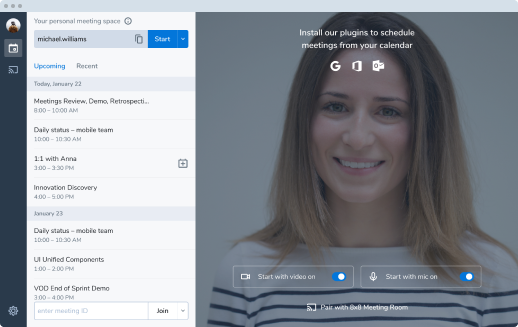
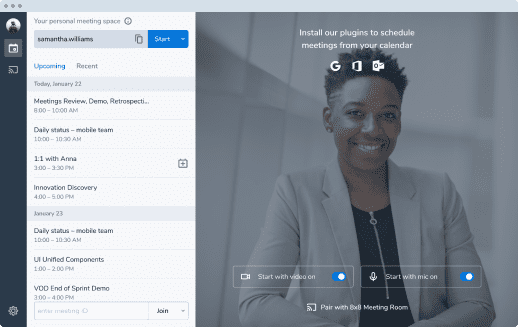
Implement new design

diff --git a/css/_welcome_page_content.scss b/css/_welcome_page_content.scss
@@ -1,5 +1,37 @@
 /** Insert custom CSS for any additional content in the welcome page **/
 
+// Edit some elements to accomodate new design
+
+#enter_room:before {
+    content: '8x8.vc';
+    color: black;
+    border-right: 1px solid #CBD8E4;
+    display: inline-block;
+    align-self: stretch;
+    line-height: 48px;
+    padding: 0 16px;
+    font-size: 14px;
+}
+
+.welcome-page-button:after {
+    content: 'Start meeting';
+    font-size: 14px;
+}
+
+.header-text:after {
+    content: 'Start a meeting now with one click';
+    font-weight: 600;
+    font-size: 28px;
+    color: #fff;
+    margin-top: 40px;
+}
+
+.header-text-title:after {
+    content: 'Secure, fully-featured and free video conferencing';
+    font-size: 42px;
+    opacity: 0.8;
+}
+
 .welcome-page-content {
     display: flex;
     flex-direction: column;
@@ -8,29 +40,26 @@
     position: relative;
     z-index: 1;
     width: 100%;
+    background-color: #fff;
 }
 
 .welcome-page-extra-content {
     padding-bottom: 88px;
 }
-.welcome-app-description-container {
-    justify-content: center;
-    align-items: center;
-    max-height: 152px;
-    width: 100%;
-    display: flex;
-    background-color: #14C9A2;
-    padding: 32px 0 34px;
-}
 
-.welcome-app-description-text {
-    width: 608px;
-    color: #fff;
+.welcome-page-or-bubble {
+    height: 56px;
+    width: 56px;
+    position: absolute;
+    top: -28px;
+    align-self: center;
+    text-align: center;
+    line-height: 56px;
+    border-radius: 50%;
+    color: black;
+    background: #CBD8E4;
     font-weight: 500;
     font-size: 16px;
-    line-height: 22px;
-    word-break: break-word;
-    text-align: center;
 }
 
 .welcome-content-container {
@@ -39,7 +68,7 @@
     justify-content: space-between;
     background: #fff;
     width: calc(100% - 188px);
-    padding: 32px 94px 106px;
+    padding: 60px 94px 106px;
     overflow: hidden;
 }
 
@@ -257,7 +286,7 @@
     font-weight: 600;
 }
 
-@media only screen  and (max-width: 450px) {
+@media only screen and (max-width: 450px) {
     .welcome-content-container {
         width: calc(100% - 48px);
         padding: 24px 24px 43px;
@@ -333,8 +362,41 @@
         align-items: center;
     }
 
-    .header.header {
-        background-image: $welcomePageHeaderBackgroundSmall;
+
+    .welcome .header #enter_room .enter-room-input-container {
+        display: none;
+    }
+
+    .welcome .header #enter_room:before {
+        content: none;
+    }
+
+    .welcome .header #enter_room {
+        width: inherit;
+    }
+
+    .welcome .welcome-page-button {
+        border-radius: 24px;
+        width: 260px;
+    }
+
+    .welcome .header .header-text {
+        margin-top: 140px;
+    }
+
+    .header-text-title:after {
+        font-size: 28px;
+    }
+
+    .header-text:after {
+        font-size: 24px;
+    }
+
+}
+
+@media only screen and (min-width: 1550px) {
+    .welcome .header {
+        background-size: contain;
     }
 }
 

diff --git a/css/_variables.scss b/css/_variables.scss
@@ -166,17 +166,17 @@ $welcomePageFontFamily: inherit;
 $welcomePageBackground: none;
 $welcomePageTitleColor: #fff;
 
-$welcomePageHeaderBackground: url('../images/welcome-background.jpg');
-$welcomePageHeaderBackgroundSmall: url('../images/welcome-background-small.png');
+$welcomePageHeaderBackground: url('../images/welcome-background.png');
 $welcomePageHeaderBackgroundPosition: center;
 $welcomePageHeaderBackgroundRepeat: no-repeat;
 $welcomePageHeaderBackgroundSize: cover;
-$welcomePageHeaderPaddingBottom: 40px;
+$welcomePageHeaderPaddingBottom: 60px;
 
-$welcomePageHeaderTextMarginTop: 254px;
-$welcomePageHeaderTextMarginBottom: 40px;
+$welcomePageHeaderTextMarginTop: 190px;
+$welcomePageHeaderTextMarginBottom: 24px;
 
 $welcomePageHeaderTextTitleMarginBottom: 0px;
+$welcomePageHeaderTextTitleFontSize: 0;
 
 $welcomePageHeaderTextDescriptionDisplay: none;
 
@@ -184,7 +184,7 @@ $welcomePageEnterRoomWidth: 560px;
 $welcomePageEnterRoomPadding: 0px;
 $welcomePageEnterRoomBorderRadius: 24px;
 
-$welcomePageEnterRoomInputContainerPadding: 0 8px 0 32px;
+$welcomePageEnterRoomInputContainerPadding: 0 8px 0 16px;
 $welcomePageEnterRoomInputContainerBorderWidth: 0px;
 $welcomePageEnterRoomInputContainerBorderStyle: none;
 $welcomePageEnterRoomInputContainerBorderImage: none;
@@ -197,7 +197,9 @@ $welcomePageTabButtonsDisplay: none;
 $welcomePageTabDisplay: none;
 
 $welcomePageButtonWidth: 156px;
+$welcomePageButtonMinWidth: 156px;
 $welcomePageButtonHeight: 48px;
+$welcomePageButtonFontSize: 0;
 $welcomePageButtonFontWeight: 600;
 $welcomePageButtonBorderRadius: 0 24px 24px 0;
 $welcomePageButtonLineHeight: 48px;

diff --git a/index.html b/index.html
@@ -151,14 +151,8 @@
   </head>
   <template id="welcome-page-additional-content-template">
     <div class="welcome-page-extra-content">
-        <div class="welcome-app-description-container">
-            <span class="welcome-app-description-text">
-                Go ahead, video chat with the whole team. In fact, invite everyone you know.
-                8x8 Meetings is a fully encrypted, 100% open source video conferencing
-                solution that you can use all day, for free – with no account needed.
-            </span>
-        </div>
         <div class="welcome-content-container">
+            <div class="welcome-page-or-bubble">OR</div>
             <div class="welcome-content-header">
                 <span class="welcome-header-title">Create a free account</span>
                 <span class="welcome-header-subtitle">and get more features:</span>

diff --git a/css/_welcome_page.scss b/css/_welcome_page.scss
@@ -38,7 +38,7 @@ body.welcome-page {
 
         .header-text-title {
             color: $welcomePageTitleColor;
-            font-size: 2.5rem;
+            font-size: $welcomePageHeaderTextTitleFontSize;
             font-weight: 500;
             line-height: 1.18;
             margin-bottom: $welcomePageHeaderTextTitleMarginBottom;
@@ -148,8 +148,9 @@ body.welcome-page {
 
     .welcome-page-button {
         width: $welcomePageButtonWidth;
+        min-width: $welcomePageButtonMinWidth;
         height: $welcomePageButtonHeight;
-        font-size: 14px;
+        font-size: $welcomePageButtonFontSize;
         font-weight: $welcomePageButtonFontWeight;
         background: #0074E0;
         border-radius: $welcomePageButtonBorderRadius;
